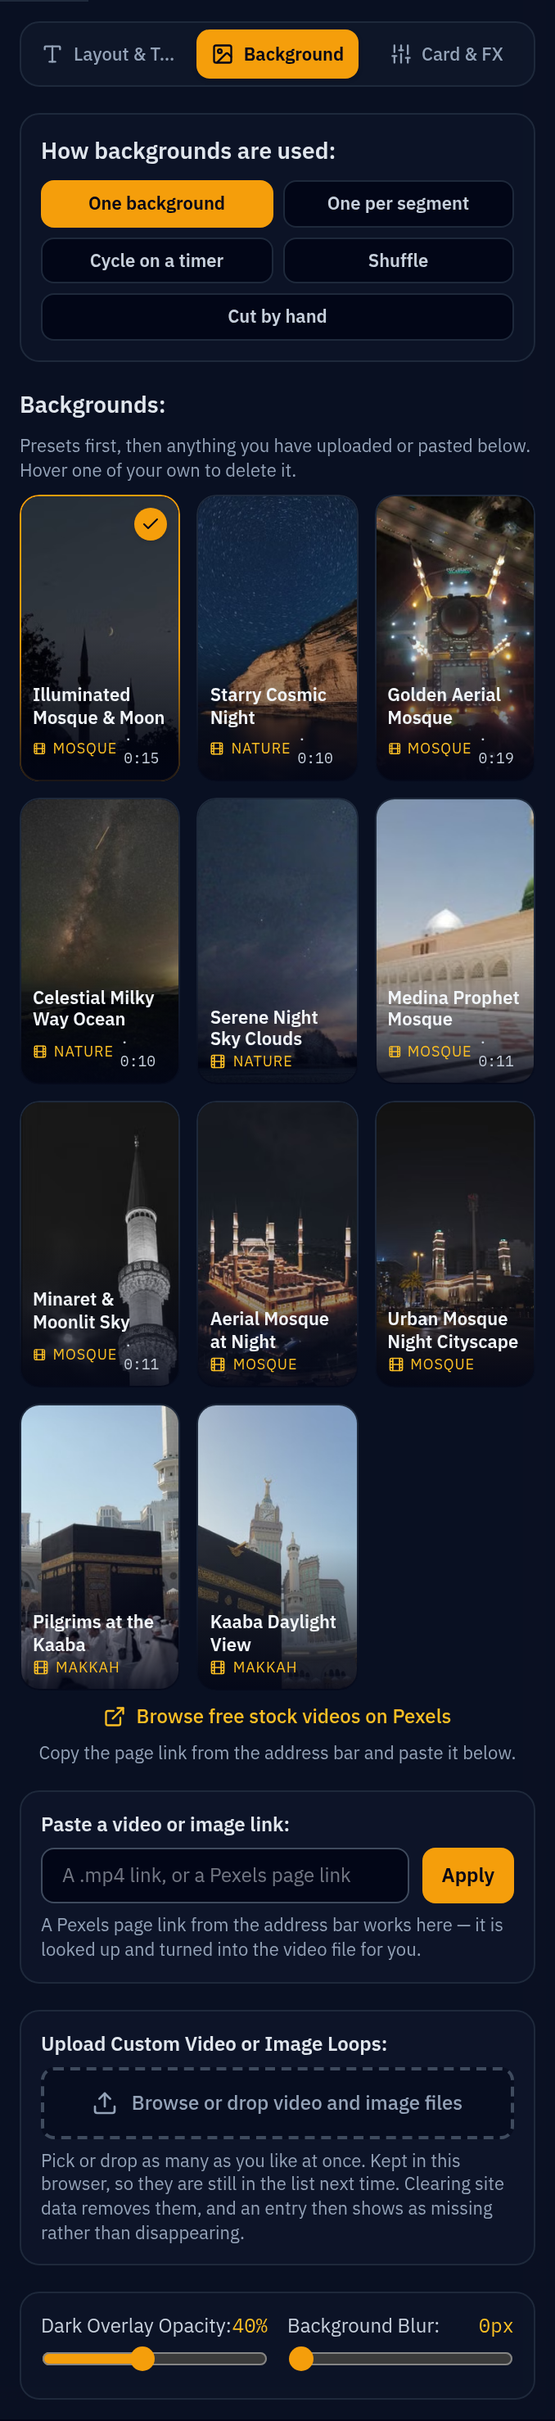
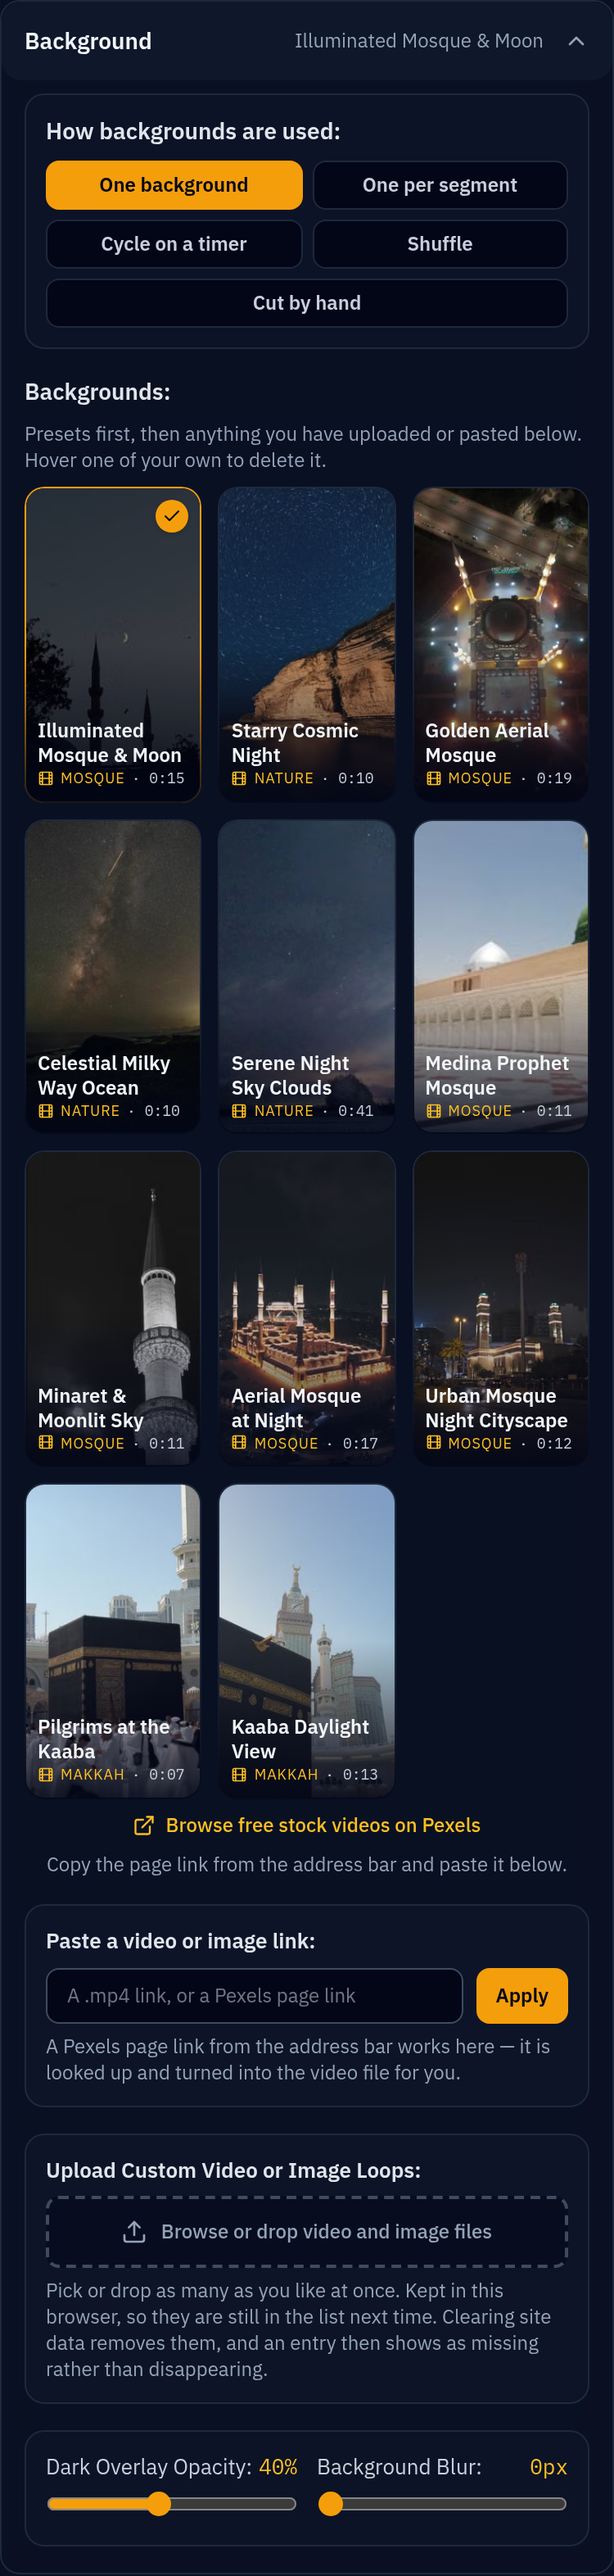
New README screenshots of the redesigned studio, and the text to go with them
All ten screenshots retaken in both languages from the running studio at 2x,
with a real recording (At-Tahrim) matched by the local aligner: the studio on
the Captions tab, the timeline, the upload form, the trim editor, the
translation picker, shortcuts, export, and the Style sections. Development
overlays are hidden, as a production build shows them. Alt text describes the
new images, and the README now says translations are chosen in Captions, the
language switch is in the header, the safe-area outlines are per platform, and
an added caption never overlaps another.

diff --git a/README.md b/README.md
@@ -16,9 +16,9 @@ only for timing. A word cannot go missing, come back garbled, or land in the wro
 those are structural properties of the method, not tuning. See [docs/ALIGNMENT.md](docs/ALIGNMENT.md).
 
 <p align="center">
-  <img src="docs/screenshots/QuranClipper_Studio.png" alt="The studio: the source column on the left, the video preview in the middle, the inspector on the right, and the timeline across the bottom.">
+  <img src="docs/screenshots/QuranClipper_Studio.png" alt="The studio with a matched recording: the Captions tab on the left showing a caption marked for checking and its words, the preview with the frame bar above it, and the timeline across the bottom with the captions to check marked.">
 </p>
-<p align="center"><sub>One screen: source, preview, inspector, timeline. Five themes ship, switchable at runtime from the header's ⋯ menu.</sub></p>
+<p align="center"><sub>One screen: the working panel (Source, Captions, Style), the preview, the timeline. Five themes ship, switchable at runtime from the header's ⋯ menu.</sub></p>
 
 ---
 
@@ -111,7 +111,7 @@ those are structural properties of the method, not tuning. See [docs/ALIGNMENT.m
   will not find it again in a later session — the background list will have it, but the project
   will not re-select it.
 <p align="center">
-  <img src="docs/screenshots/QuranClipper_BackgroundPicker.png" alt="The background panel: the four ways backgrounds are used, the sequence in play order, and the gallery with each clip's length under its label.">
+  <img src="docs/screenshots/QuranClipper_BackgroundPicker.png" alt="The Background section of the Style tab: the four ways backgrounds are used, and the gallery with each clip’s length under its label.">
 </p>
 - **A real timeline.** Each ayah is a block whose width is its actual duration, drawn over the
   waveform of the recitation. Drag an edge to retime it, or tap **B** at each boundary while
@@ -119,7 +119,7 @@ those are structural properties of the method, not tuning. See [docs/ALIGNMENT.m
   Drag a block by its middle to move it elsewhere in the order; the captions are laid end to end
   again in the new order, each keeping its length.
 <p align="center">
-  <img src="docs/screenshots/QuranClipper_Timeline.png" alt="The timeline: transport controls, a time ruler, the background lane naming its clip and marking where it repeats, and one block per ayah drawn over the waveform.">
+  <img src="docs/screenshots/QuranClipper_Timeline.png" alt="The timeline: transport controls with Mark caption end, the captions-to-check button and the drag setting, a time ruler, the background lane, and one block per caption drawn over the waveform.">
 </p>
 <p align="center"><sub>The lane above the ayah blocks names the background and marks each repeat — <code>×2.4</code> here means the clip plays through twice and a bit.</sub></p>
 - **Trim / crop uploaded audio** with a waveform editor — a scrubbable playhead and a time
@@ -148,8 +148,9 @@ those are structural properties of the method, not tuning. See [docs/ALIGNMENT.m
   aspect ratio, the translations, the badge text or the watermark, and applying one is a single undo.
 - **The frame is chosen as a platform**, above the preview: YouTube Shorts · 9:16, Instagram
   Feed · 1:1 and so on, in 9:16, 16:9, 1:1 and 4:5. Export opens on the same platform, so the
-  shape is decided once. For the vertical feeds, *Show what the app covers* outlines roughly where
-  the feed draws its own header, caption and buttons, so the ayah can be kept clear of them.
+  shape is decided once. For the vertical feeds, *Show what the app covers* outlines where each one
+  — Shorts, TikTok, Reels, Facebook Reels — draws its own header, caption and buttons, from
+  published safe-zone guides, so the ayah can be kept clear of them.
 - 11 Pexels video backgrounds, plus any video or image you paste a link to or upload — stills
   render exactly like footage.
 - **Undo and redo** across the timeline, the selection and the styling, with
@@ -173,7 +174,7 @@ those are structural properties of the method, not tuning. See [docs/ALIGNMENT.m
   blur against a WebGL one and keeps whichever is quicker in this browser. Where Chrome already
   draws canvases on the GPU the two are within a millisecond and the canvas blur stays; where it
   does not, the WebGL blur saves most of a frame (11 ms down to 5–7 ms at 1080×1920, measured).
-- **The interface in English or Arabic**, switched from the header's ⋯ menu. The choice is a cookie, so
+- **The interface in English or Arabic**, switched from the header (from its ⋯ menu on a phone). The choice is a cookie, so
   the server renders the page in the right language and direction from the first paint rather
   than flashing English and correcting itself. Arabic gets a real RTL layout and its own
   interface face; the timeline and the trim waveform stay left-to-right, because time does. The
@@ -200,10 +201,10 @@ those are structural properties of the method, not tuning. See [docs/ALIGNMENT.m
   (see [Mushaf fonts and QUL data](#mushaf-fonts-and-qul-data)); without it the option is greyed
   out and a project that asks for it draws the pill.
 <p align="center">
-  <img src="docs/screenshots/QuranClipper_Layout.png" alt="The Layout and Text panel: aspect ratio, Arabic calligraphy face, text sizes, the chosen translations, and the colour fields." width="30%">
+  <img src="docs/screenshots/QuranClipper_Layout.png" alt="The Text section of the Style tab: the Arabic calligraphy face, text sizes and the colour fields." width="30%">
 </p>
 <p align="center">
-  <img src="docs/screenshots/QuranClipper_Card_Branding.png" alt="The Card and FX panel: card opacity and border, the surah badge, the watermark and the audio visualiser." width="30%">
+  <img src="docs/screenshots/QuranClipper_Card_Branding.png" alt="The Card and Watermark sections of the Style tab: layout, badge, card opacity and border, the audio visualiser and the watermark." width="30%">
 </p>
 - **Export aimed at a platform, not at a fixed frame** — seven platforms, ticked one or several
   at a time, three resolution tiers and two frame rates, described under [Export](#export).
@@ -485,7 +486,7 @@ they can be swapped freely and compared on the same clip.
 | **Online** (`gemini`) | API key | you | Approximate |
 
 <p align="center">
-  <img src="docs/screenshots/QuranClipper_Matching.png" alt="The upload panel with a recitation loaded: the two matchers with their current state, the trim button showing the clip length, and the auto-match and manual match choices." width="30%">
+  <img src="docs/screenshots/QuranClipper_Matching.png" alt="The Source tab in My recording mode with a recitation chosen: the timing engines and their state, Match recording, Time it by hand and Trim audio." width="30%">
 </p>
 <p align="center"><sub>Each matcher says whether it can run right now, and why not if it cannot — here the local sidecar has not been started.</sub></p>
 
@@ -680,8 +681,8 @@ reciter's export is read once per process.
 
 ## Translations
 
-The line under the Arabic is a choice, not a constant. **Choose translations**, in
-Style › Layout & Text, opens every edition the configured upstream publishes — 126 of them on
+The line under the Arabic is a choice, not a constant. **Translations › Change**, in the Captions
+tab right above the translation boxes, opens every edition the configured upstream publishes — 126 of them on
 the open API — grouped by language and searchable by translator, because the question is rarely "where is English", it is
 which of the eight Urdu translations this one is.
 
@@ -793,13 +794,15 @@ Source shows one way in at a time, chosen at the top: **Built-in reciter** or **
    why, with **Looks right** and, where it applies, **Merge with next**. The badge on the tab
    counts how many are left.
 8. The Arabic, read-only — it is always the corpus's text for that ayah — word by word: tap a word
-   to hide it from the video. Then the translation, fine timing nudges (±0.2 s), and
+   to hide it from the video. Then **Translations** — which editions every caption carries — and
+   the caption's translation, fine timing nudges (±0.2 s), and
    **Split at playhead**, **Merge**, **Duplicate** and **Delete**. Moving a caption, adding one and
-   renumbering its ayah are under **More**.
+   renumbering its ayah are under **More**; an added caption takes the gap before the next one, or
+   the second half of the caption it follows, so it never overlaps another.
 
 **Style — how it looks**
-9. A row of presets (**All 6** shows the rest), then four sections — **Text** (the
-   [translations](#translations) under the Arabic, fonts, sizes, colours), **Card** (layout and
+9. A row of presets (**All 6** shows the rest), then four sections — **Text** (fonts, sizes,
+   colours), **Card** (layout and
    badge), **Background** and **Watermark**. Each says what it is set to while closed.
 
 **Above the preview**
@@ -814,7 +817,7 @@ Source shows one way in at a time, chosen at the top: **Built-in reciter** or **
     **Save to Projects** beside it saves the clip to the projects list.
 
 <p align="center">
-  <img src="docs/screenshots/QuranClipper_Shortcuts.png" alt="The keyboard shortcuts dialog, listing space, B, undo, redo, question mark and escape." width="52%">
+  <img src="docs/screenshots/QuranClipper_Shortcuts.png" alt="The keyboard shortcuts dialog, listing space, B, N, undo, redo, question mark and escape." width="52%">
 </p>
 
 Then save the project and export.
@@ -843,7 +846,7 @@ attached rather than quietly producing something smaller than was asked for.
 **Chrome or Chromium is recommended**, and is what gets you the first path.
 
 <p align="center">
-  <img src="docs/screenshots/QuranClipper_Export.png" alt="The export dialog: the detected GPU and codecs, the seven platform presets, frame rate and quality tiers, and the resulting resolution, bitrate and estimated file size." width="52%">
+  <img src="docs/screenshots/QuranClipper_Export.png" alt="The export dialog: the platforms to render for, each with its shape and any re-layout or length note, quality and frame rate, a one-line summary, and Render video." width="52%">
 </p>
 
 ### Before and after a render
